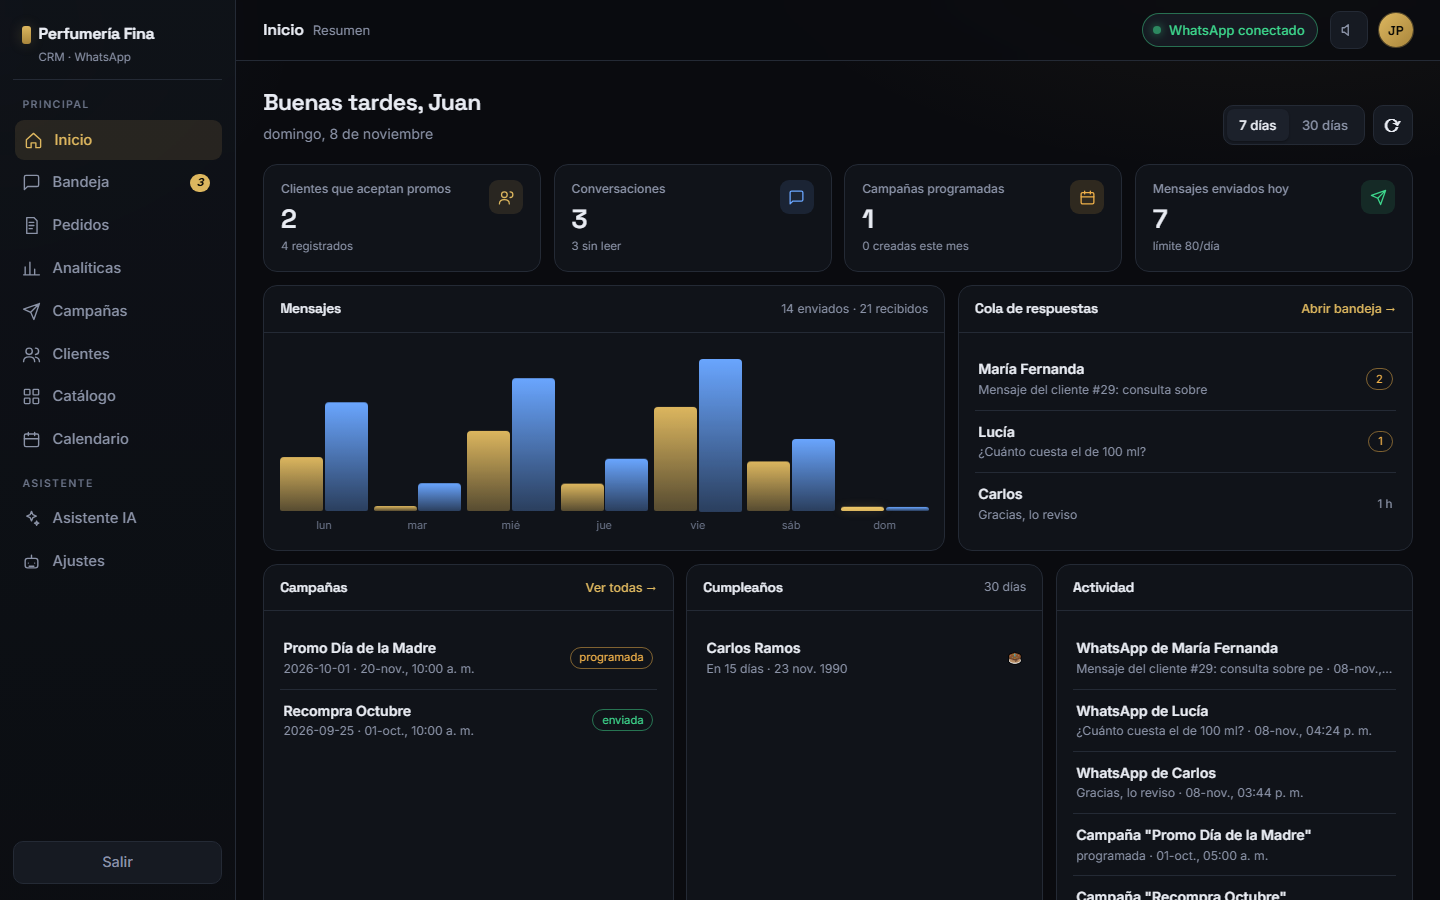
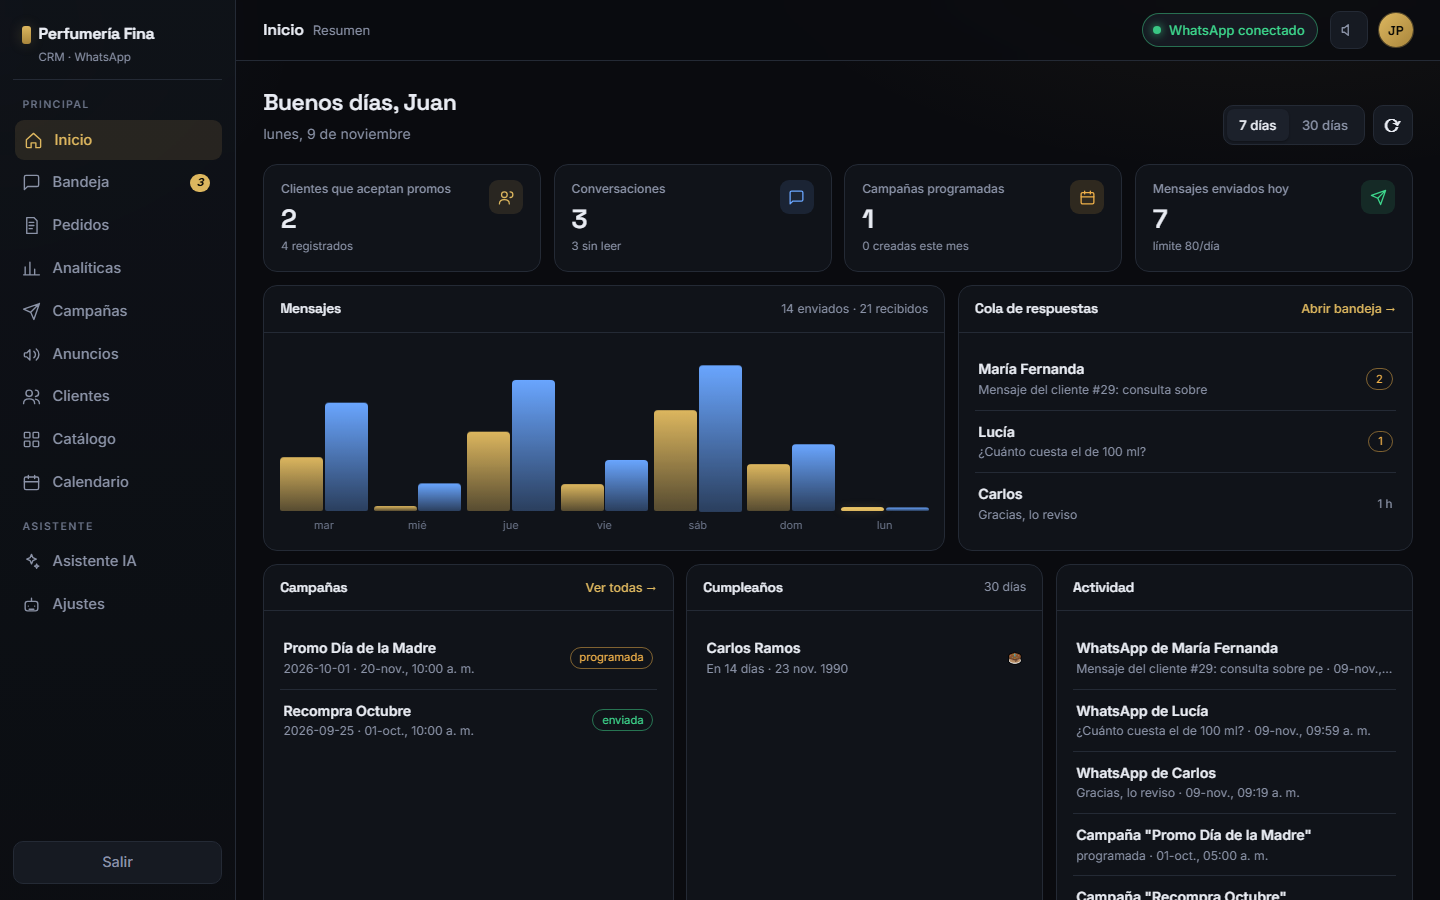
e2e: mock de /api/anuncios y evidencia actualizada (11/11)

diff --git a/docs/auditoria/E2E-PANEL.md b/docs/auditoria/E2E-PANEL.md
@@ -16,8 +16,8 @@
 |---|---|---|
 | Self-test del arnés (sin navegador) | ✅ **9/9 PASS** | `capturas/e2e-selftest.json` |
 | **Corrida E2E real con Chromium** | ✅ **11/11 PASS · 0 FAIL · 0 SKIP · exit 0** | `capturas/e2e-resultado.json` |
-| Comando y duración | `node scripts/e2e-panel.mjs` · **40,2 s** (40.246 ms) · Chromium 146 headless 1440×900 | 2026-11-08T21:44:06.482Z → 2026-11-08T21:44:46.729Z |
[1 lines of base64/hex data omitted]
+| Comando y duración | `node scripts/e2e-panel.mjs` · **39,2 s** (39.196 ms) · Chromium 146 headless 1440×900 | 2026-11-09T15:19:35.677Z → 2026-11-09T15:20:14.873Z |
[1 lines of base64/hex data omitted]
 | Entorno | Node **v24.16.0** · Puppeteer **24.38.0** · Chrome for Testing **146.0.7680.31** (win32/x64) | campo `environment` |
 | Errores | **0 `console.error` JS · 0 `pageerror`** · 1 aviso de red esperado (fallo simulado `E2E-09` + imágenes offline) | campo `errors` |
 
@@ -236,7 +236,7 @@ comando de §3 funciona directamente.
 ## 8. Hallazgos
 
 **No se encontraron bugs en el panel.** Los 11 casos pasan sobre el `index.html` final
-(`sha256=9f2000f2…`), en particular los comportamientos anti-parpadeo:
+(`sha256=b70c4459…`), en particular los comportamientos anti-parpadeo:
 
 - SSE de mensaje se **agrega** al hilo (0 nodos removidos, 30/30 previos conservados).
 - Scroll anclado al fondo solo si el usuario ya estaba abajo; si está arriba, no se mueve.
@@ -284,8 +284,8 @@ Durante el desarrollo del arnés se encontraron y corrigieron **dos bugs del pro
 
 - El `index.html` se sirve **sin tocarlo** en cada petición; al empezar la corrida se registra su
   `sha256`, tamaño y `mtime` en `e2e-resultado.json` para saber exactamente qué versión se probó.
[1 lines of base64/hex data omitted]
-  147.222 bytes.
[1 lines of base64/hex data omitted]
+  158.117 bytes.
 - Si el panel cambia de IDs/endpoints, el arnés falla con un mensaje claro (p. ej. "no existe
   `#t-<tab>`", "no se observó `new EventSource()`", "el hilo no se abrió con mensajes").
 - Si el contrato SSE cambia (tipos/campos), actualizar `createBotMock()` y `ST-05`.

diff --git a/docs/auditoria/ENTREGA-2026-11-08.md b/docs/auditoria/ENTREGA-2026-11-08.md
@@ -235,7 +235,7 @@ Estas son 3 opciones de amaderado que te pueden gustar:
 | Unitarias backend | `cd bot; $env:NODE_OPTIONS='--test-isolation=none'; node --test "test/*.test.mjs"` | **43/43 PASS** |
 | Humo del bot en modo prueba | `PORT=3123 MODO_PRUEBA=true node src/server.js` + `/api/estado`, `/api/conversaciones`, `/api/ia`, `/api/eventos`, `/api/qr`, `/api/logs` | **OK**: `/api/estado` sin `qr`, caché, 27 chats, fail-safe de migración 07 en el log |
 | Datos locales | backup/restore de `bot/data` antes/después del humo | **Restaurado** (27 chats, sin `.tmp`/`.bak` extra) |
-| E2E panel (Chromium + mock bot + Supabase interceptada) | `node scripts/e2e-panel.mjs` | **11/11 PASS** (sha final `9f2000f2…`, 40,2 s) |
+| E2E panel (Chromium + mock bot + Supabase interceptada) | `node scripts/e2e-panel.mjs` | **11/11 PASS** (sha final `b70c4459…`, 39,2 s) |
 | IA real | 1 sesión de prueba con Gemini sobre catálogo real (202 productos) | devolvió JSON estructurado y 3 viñetas correctas |
 
 **E2E detalle:** 11/11 PASS — arranque, 10 pestañas, bandeja, SSE conectado y evento
